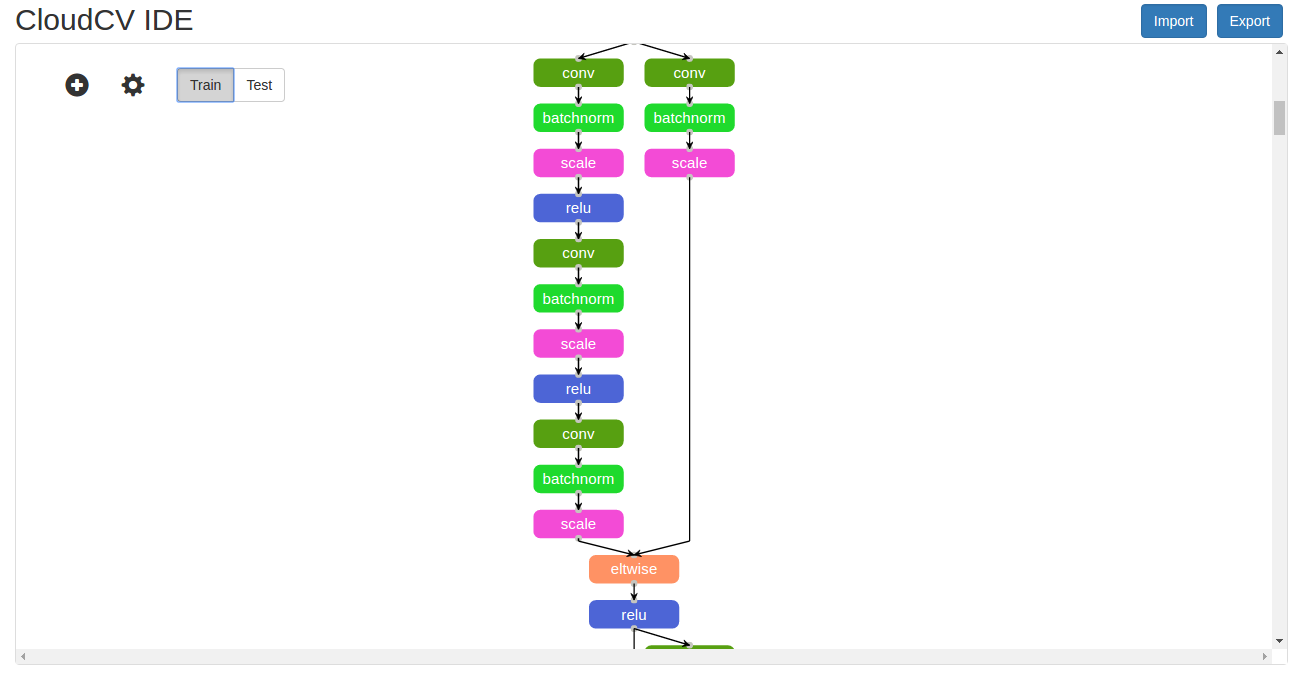
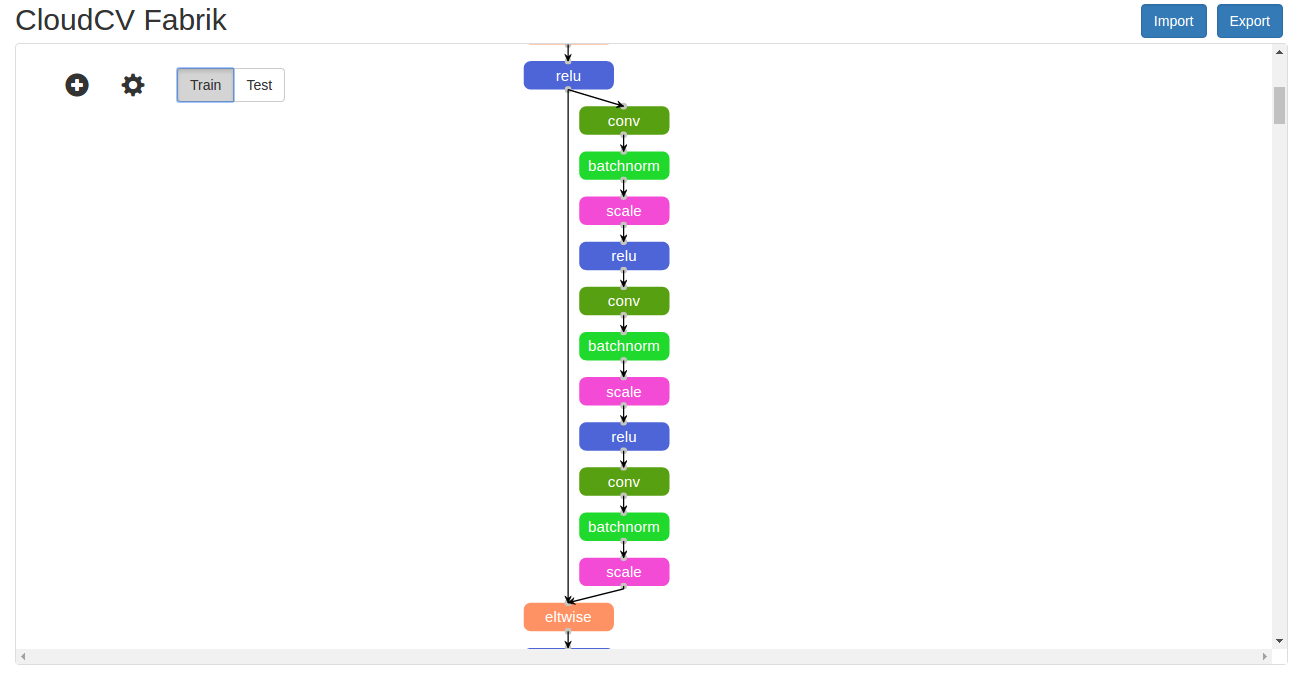
Changed name from IDE to Fabrik

diff --git a/ide/static/js/topBar.js b/ide/static/js/topBar.js
@@ -6,7 +6,7 @@ class TopBar extends React.Component {
       <div className="topBar">
         <div className="row">
           <div className="col-md-7 topBarHead" >
-            CloudCV IDE
+            CloudCV Fabrik
           </div>
           <div className="col-md-5" >
             <div className="form-inline">

diff --git a/ide/static/bundle/bundle.js b/ide/static/bundle/bundle.js
@@ -29773,7 +29773,7 @@
 	          _react2.default.createElement(
 	            "div",
 	            { className: "col-md-7 topBarHead" },
-	            "CloudCV IDE"
+	            "CloudCV Fabrik"
 	          ),
 	          _react2.default.createElement(
 	            "div",

diff --git a/ide/templates/index.html b/ide/templates/index.html
@@ -2,7 +2,7 @@
 <html lang="en">
 <head>
   <meta charset="UTF-8">
-  <title>CloudCV IDE</title>
+  <title>CloudCV Fabrik</title>
   <link rel="stylesheet" type="text/css" href="/static/lib/bootstrap-3.3.6-dist/css/bootstrap.css">
 </head>
 <body>
